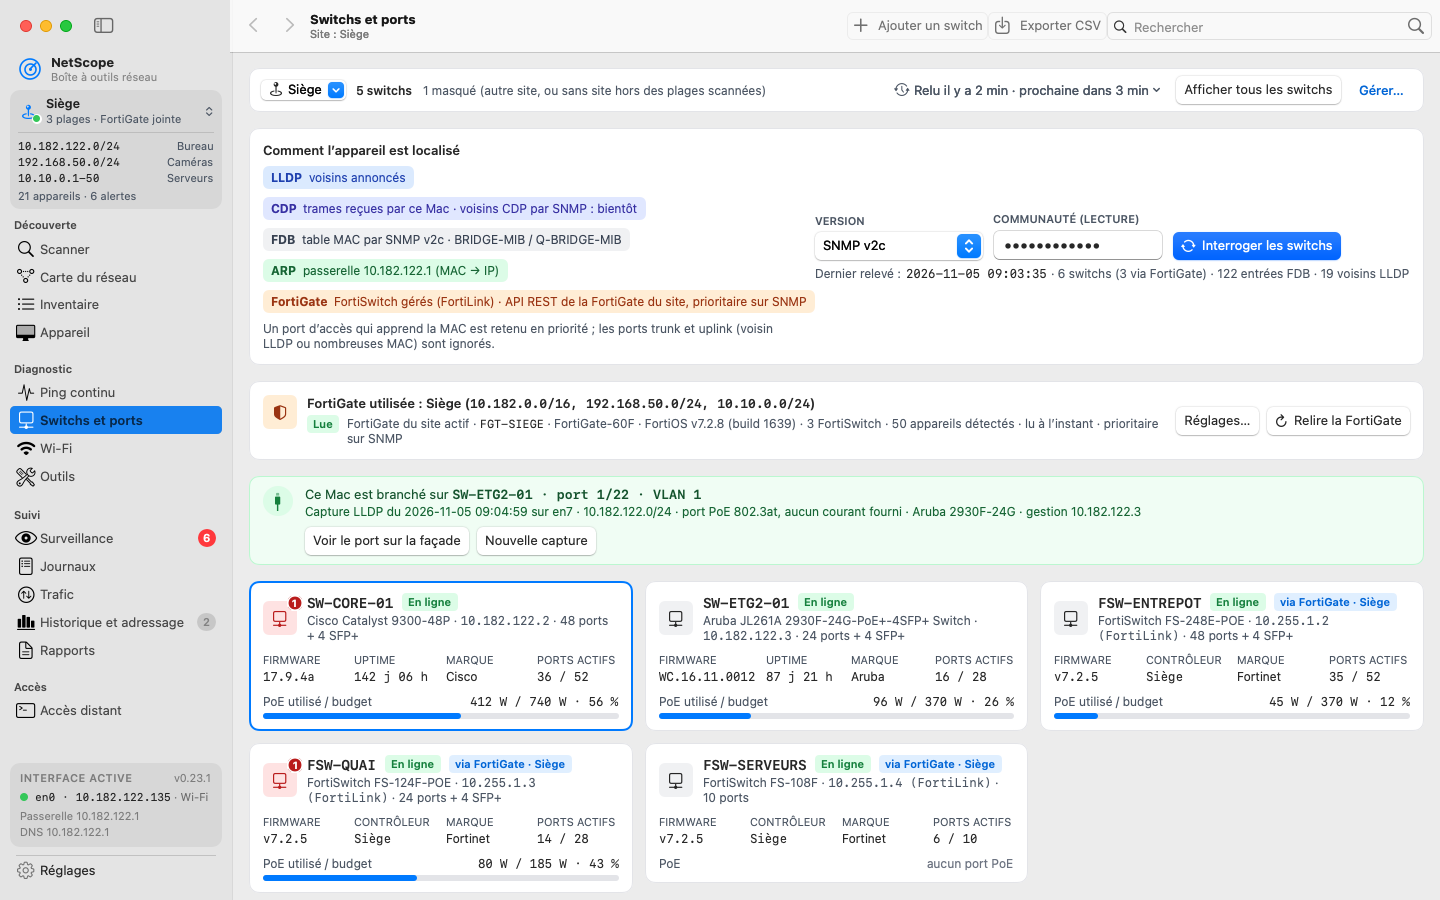
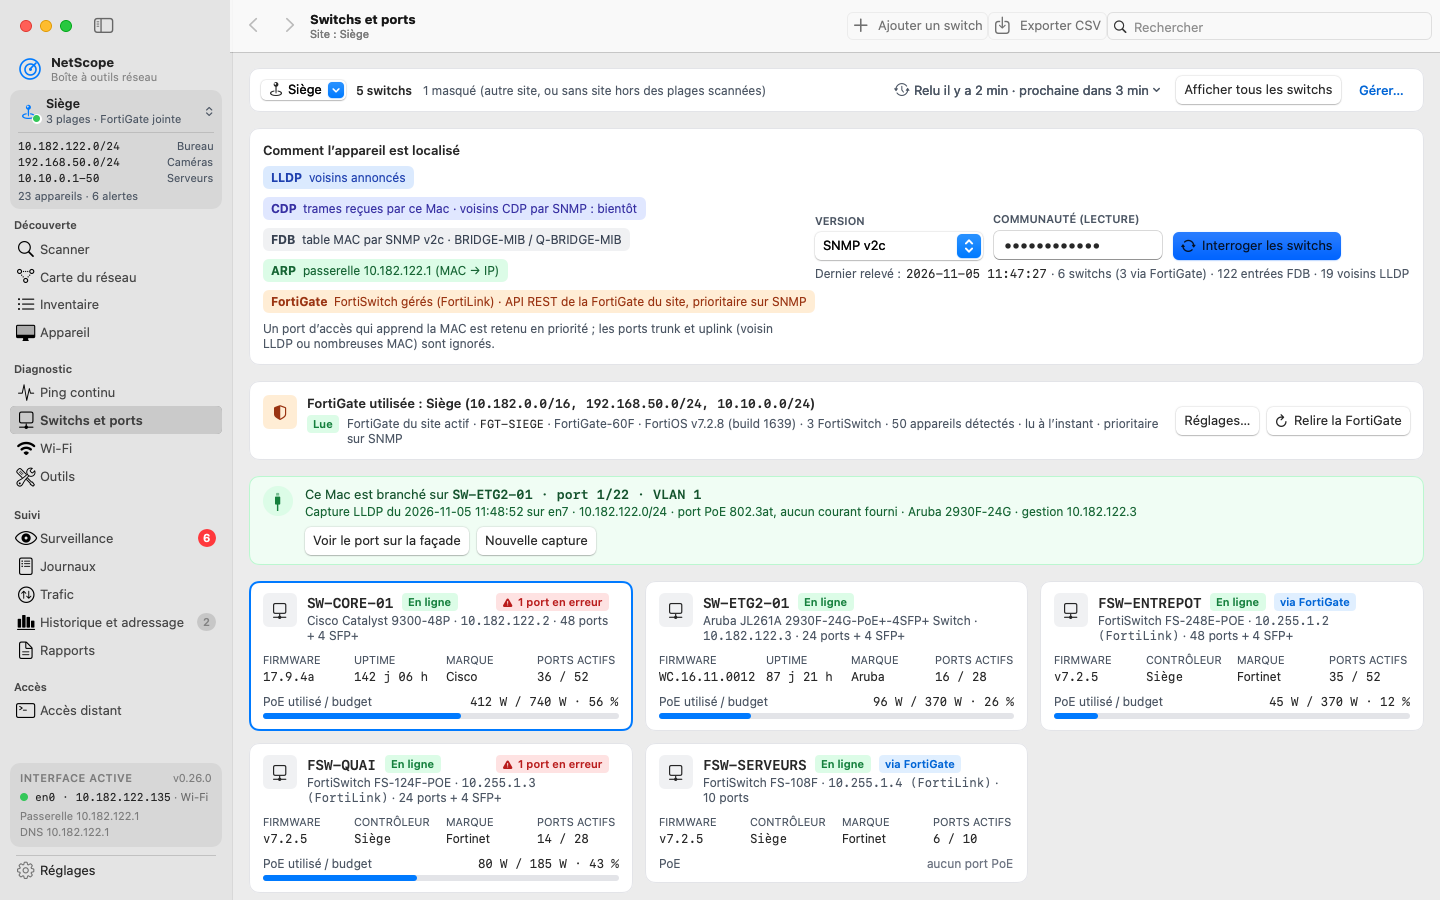
Switchs : erreurs des ports à droite de la carte
La pastille rouge sur l'icône devient une puce « 1 port en erreur » au bout
de la ligne du nom ; dans une carte étroite, seulement « ⚠ 1 ».

diff --git a/Sources/NetScope/Screens/Switch/SwitchPanels.swift b/Sources/NetScope/Screens/Switch/SwitchPanels.swift
@@ -196,31 +196,34 @@ struct SwitchSourcesPanel: View {
 /// Icône de la carte d'un switch ; quand des ports gagnent des erreurs (erreurs récentes, pas le
 /// total depuis le démarrage), elle passe en rouge avec une pastille du nombre de ports touchés.
 struct SwitchCardIcon: View {
+    var body: some View {
+        ZStack {
+            RoundedRectangle(cornerRadius: Theme.buttonRadius).fill(Theme.neutralSoft)
+            Image(systemName: "rectangle.connected.to.line.below").font(.system(size: 15))
+                .foregroundStyle(Theme.text)
+        }
+        .frame(width: 34, height: 34)
+        .accessibilityHidden(true)
+    }
+}
+
+/// Ports dont les erreurs augmentent, en haut à droite de la carte du switch.
+struct SwitchErrorBadge: View {
     let snapshot: SNMPSwitchSnapshot?
     let recent: SwitchRecentErrors
 
     var body: some View {
         let alerts = recent.alerts
-        ZStack {
-            RoundedRectangle(cornerRadius: Theme.buttonRadius).fill(alerts.isEmpty ? Theme.neutralSoft : Theme.criticalSoft)
-            Image(systemName: "rectangle.connected.to.line.below").font(.system(size: 15))
-                .foregroundStyle(alerts.isEmpty ? Theme.text : Theme.critical)
-        }
-        .frame(width: 34, height: 34)
-        .overlay(alignment: .topTrailing) {
-            if !alerts.isEmpty {
-                Text("\(alerts.count)")
-                    .font(.system(size: 10, weight: .bold).monospacedDigit())
-                    .foregroundStyle(.white)
-                    .padding(.horizontal, 4)
-                    .frame(minWidth: 16, minHeight: 16)
-                    .background(Capsule().fill(Theme.critical))
-                    .overlay(Capsule().strokeBorder(Theme.panel, lineWidth: 1.5))
-                    .offset(x: 6, y: -6)
+        if !alerts.isEmpty {
+            // Carte étroite : seulement le nombre, la carte ne doit pas déborder.
+            ViewThatFits(in: .horizontal) {
+                Chip(text: "\(alerts.count) port\(alerts.count > 1 ? "s" : "") en erreur", tone: .critical,
+                     systemImage: "exclamationmark.triangle.fill")
+                Chip(text: "\(alerts.count)", tone: .critical, systemImage: "exclamationmark.triangle.fill")
             }
+            .help(helpText(alerts))
+            .accessibilityLabel("\(alerts.count) port\(alerts.count > 1 ? "s" : "") dont les erreurs augmentent")
         }
-        .help(helpText(alerts))
-        .accessibilityLabel(alerts.isEmpty ? "Switch" : "Switch, \(alerts.count) port\(alerts.count > 1 ? "s" : "") dont les erreurs augmentent")
     }
 
     private func helpText(_ alerts: [PortErrorDelta]) -> String {
@@ -250,43 +253,48 @@ struct SwitchCard: View {
         let active = (store.current?.id ?? store.selectedHost) == host
         Button { store.select(host: host) } label: {
             VStack(alignment: .leading, spacing: 10) {
-                HStack(spacing: 10) {
-                    SwitchCardIcon(snapshot: snapshot, recent: store.recentErrors(host))
+                HStack(alignment: .top, spacing: 10) {
+                    SwitchCardIcon()
                     VStack(alignment: .leading, spacing: 2) {
-                        // Petite fenêtre : la puce d'origine disparaît avant que le nom ne se coupe.
-                        ViewThatFits(in: .horizontal) {
-                            HStack(spacing: 8) {
-                                cardName(snapshot)
-                                statusChip(snapshot)
-                                if store.isController(host) {
-                                    // Note 25 : le site de la FortiGate qui a lu ce FortiSwitch.
-                                    Chip(text: snapshot?.controllerName.map { "via FortiGate · \($0)" } ?? "via FortiGate", tone: .accent)
-                                        .help("FortiSwitch géré par FortiLink\u{00A0}: lu par l’API REST de la FortiGate \(snapshot?.controllerName.map { "du site «\u{00A0}\($0)\u{00A0}»" } ?? ""), jamais interrogé directement (son adresse FortiLink n’est pas joignable depuis ce Mac).")
-                                } else if store.isAutoDiscovered(host) {
-                                    Chip(text: "Découvert automatiquement", tone: .accent)
-                                        .help("Trouvé par la découverte SNMP à la fin du scan\u{00A0}; la communauté qui a répondu est gardée au Trousseau.")
-                                } else if let role = snapshot?.system.location {
-                                    Chip(text: role, tone: .neutral)
-                                }
-                            }
-                            if store.isController(host) {
+                        // Erreurs des ports à droite de la ligne du nom ; la description garde toute la largeur.
+                        HStack(alignment: .top, spacing: 8) {
+                            // Petite fenêtre : la puce d'origine disparaît avant que le nom ne se coupe.
+                            ViewThatFits(in: .horizontal) {
                                 HStack(spacing: 8) {
                                     cardName(snapshot)
                                     statusChip(snapshot)
-                                    Chip(text: "via FortiGate", tone: .accent)
-                                        .help(snapshot?.controllerName.map { "FortiSwitch lu par la FortiGate du site «\u{00A0}\($0)\u{00A0}»." } ?? "FortiSwitch lu par la FortiGate.")
+                                    if store.isController(host) {
+                                        // Note 25 : le site de la FortiGate qui a lu ce FortiSwitch.
+                                        Chip(text: snapshot?.controllerName.map { "via FortiGate · \($0)" } ?? "via FortiGate", tone: .accent)
+                                            .help("FortiSwitch géré par FortiLink\u{00A0}: lu par l’API REST de la FortiGate \(snapshot?.controllerName.map { "du site «\u{00A0}\($0)\u{00A0}»" } ?? ""), jamais interrogé directement (son adresse FortiLink n’est pas joignable depuis ce Mac).")
+                                    } else if store.isAutoDiscovered(host) {
+                                        Chip(text: "Découvert automatiquement", tone: .accent)
+                                            .help("Trouvé par la découverte SNMP à la fin du scan\u{00A0}; la communauté qui a répondu est gardée au Trousseau.")
+                                    } else if let role = snapshot?.system.location {
+                                        Chip(text: role, tone: .neutral)
+                                    }
+                                }
+                                if store.isController(host) {
+                                    HStack(spacing: 8) {
+                                        cardName(snapshot)
+                                        statusChip(snapshot)
+                                        Chip(text: "via FortiGate", tone: .accent)
+                                            .help(snapshot?.controllerName.map { "FortiSwitch lu par la FortiGate du site «\u{00A0}\($0)\u{00A0}»." } ?? "FortiSwitch lu par la FortiGate.")
+                                    }
+                                }
+                                HStack(spacing: 8) {
+                                    cardName(snapshot)
+                                    statusChip(snapshot)
+                                }
+                                // Nom trop long pour la puce sur la même ligne : l'état passe dessous
+                                // plutôt que de disparaître (FSW-ENTREPOT en petite fenêtre).
+                                VStack(alignment: .leading, spacing: 4) {
+                                    cardName(snapshot)
+                                    statusChip(snapshot)
                                 }
                             }
-                            HStack(spacing: 8) {
-                                cardName(snapshot)
-                                statusChip(snapshot)
-                            }
-                            // Nom trop long pour la puce sur la même ligne : l'état passe dessous
-                            // plutôt que de disparaître (FSW-ENTREPOT en petite fenêtre).
-                            VStack(alignment: .leading, spacing: 4) {
-                                cardName(snapshot)
-                                statusChip(snapshot)
-                            }
+                            Spacer(minLength: 0)
+                            SwitchErrorBadge(snapshot: snapshot, recent: store.recentErrors(host))
                         }
                         Group {
                             if let snapshot, store.isController(host) {
